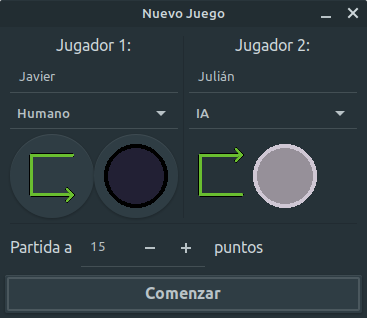
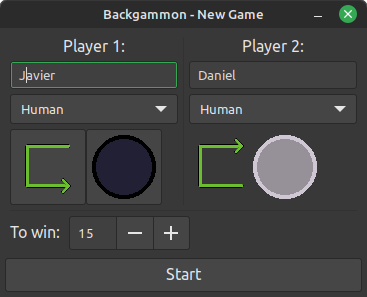
update translation to gui

diff --git a/src/player.c b/src/player.c
@@ -48,18 +48,18 @@ void player_update(void *bgp) {
 	gtk_label_set_text(bg->player_name_label[1], player2->name->str);
 
 	// Steps
-	number = g_strdup_printf("%i pasos", player_count_steps(bg, player1));
+	number = g_strdup_printf(_("Steps: %i"), player_count_steps(bg, player1));
 	gtk_label_set_text(bg->steps_label[0], number);
 	g_free(number);
-	number = g_strdup_printf("%i pasos", player_count_steps(bg, player2));
+	number = g_strdup_printf(_("Steps: %i"), player_count_steps(bg, player2));
 	gtk_label_set_text(bg->steps_label[1], number);
 	g_free(number);
 
 	// Score
-	number = g_strdup_printf("%i puntos", player1->score);
+	number = g_strdup_printf(_("%i points"), player1->score);
 	gtk_label_set_text(bg->score_label[0], number);
 	g_free(number);
-	number = g_strdup_printf("%i puntos", player2->score);
+	number = g_strdup_printf(_("%i points"), player2->score);
 	gtk_label_set_text(bg->score_label[1], number);
 	g_free(number);
 }

diff --git a/src/backgammon.c b/src/backgammon.c
@@ -164,7 +164,7 @@ Backgammon *bg_new(int argc, char *argv[]) {
 	g_signal_connect(bg->window, "destroy", G_CALLBACK(bg_on_window_destroyed), bg);
 
 	bg->turn_label = GTK_LABEL(gtk_builder_get_object(builder, "turn-label"));
-	gtk_label_set_text(bg->turn_label, "<F2> Comenzar");
+	gtk_label_set_text(bg->turn_label, _("<F2> Start"));
 	bg->action_label = GTK_LABEL(gtk_builder_get_object(builder, "action-label"));
 	gtk_label_set_text(bg->action_label, "");
 
